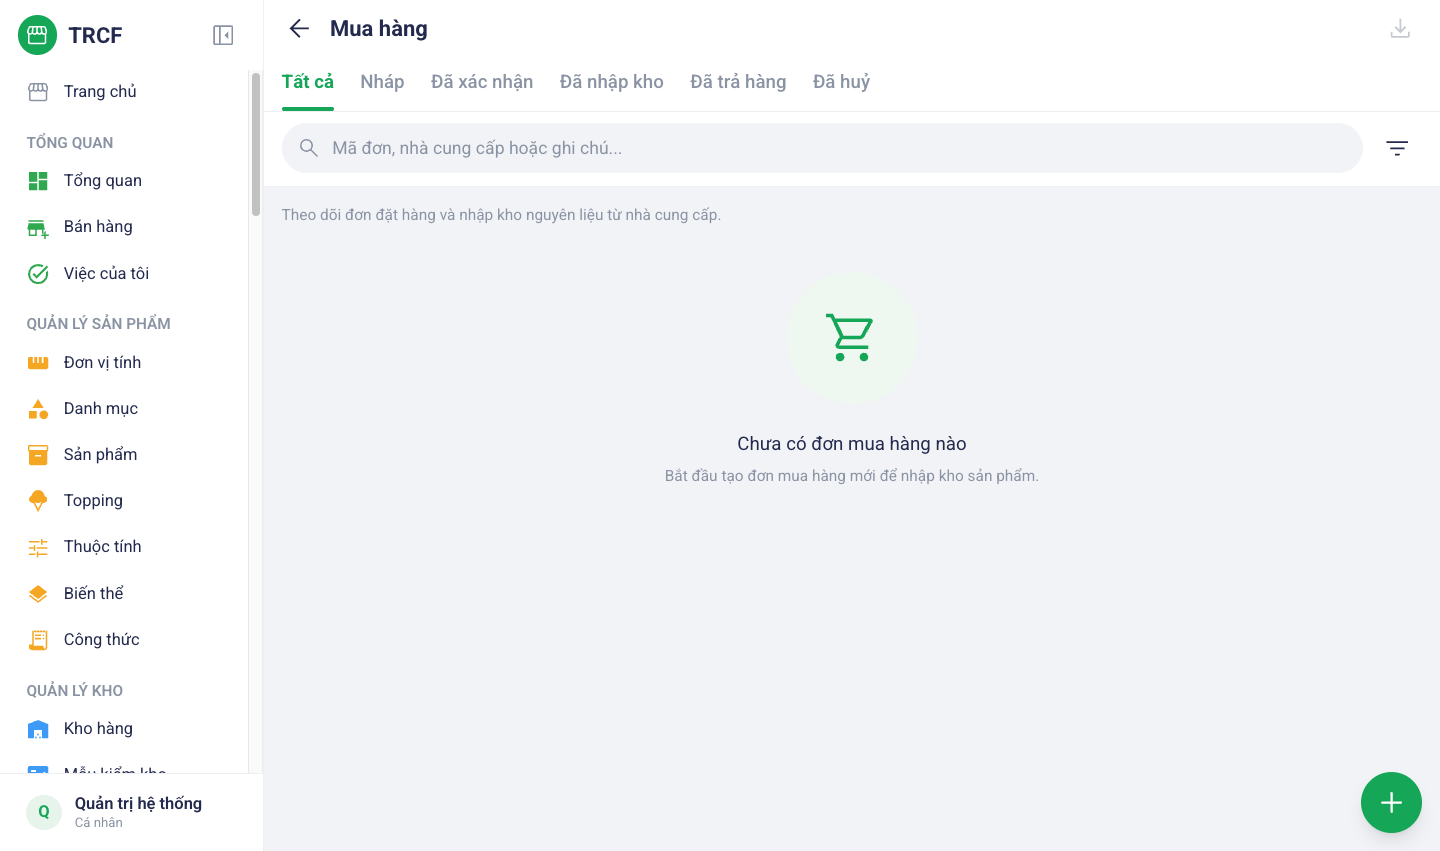
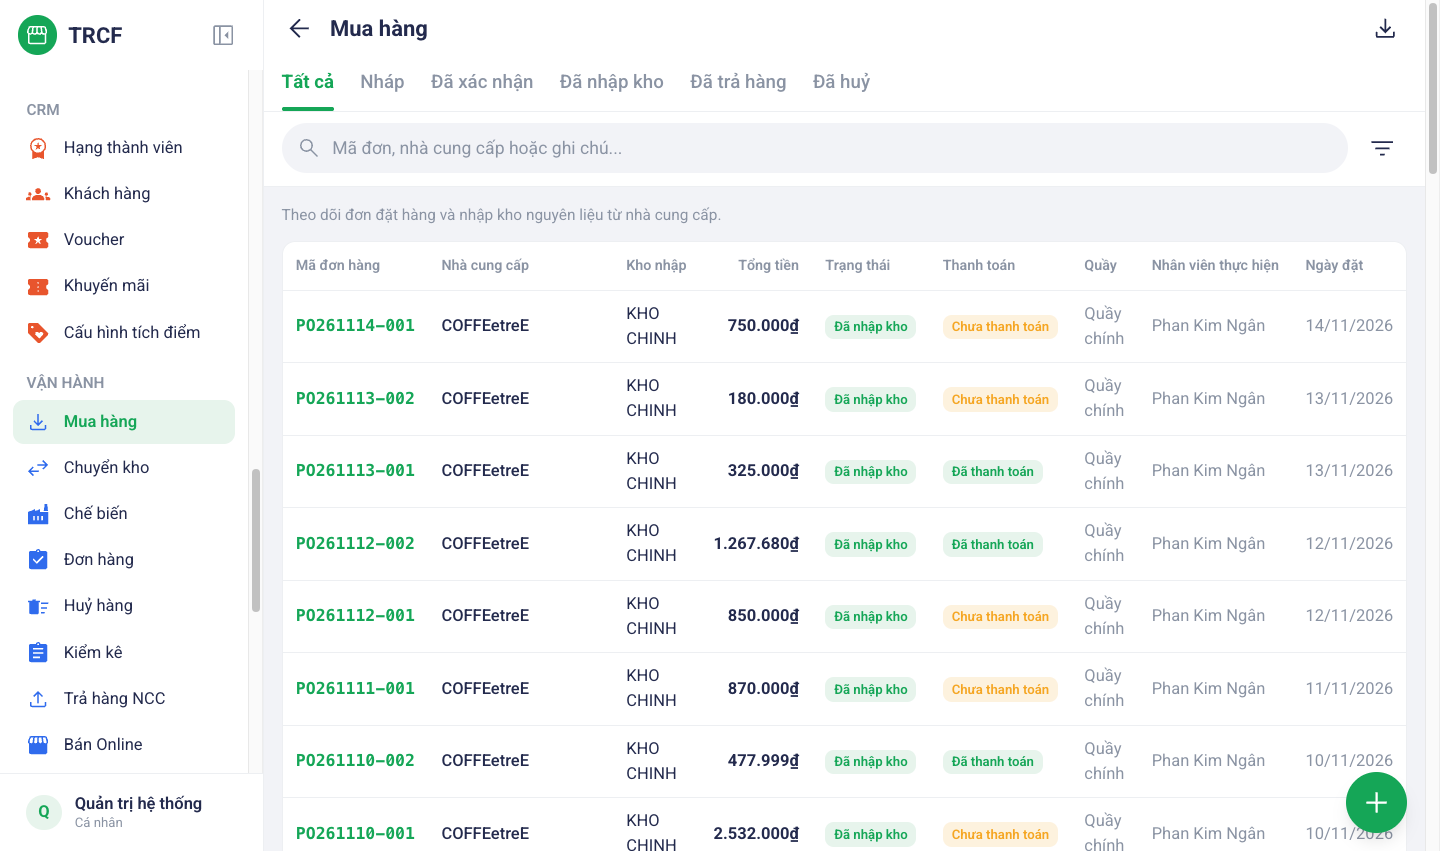
docs(11.2): nhập hàng thật — 50 CROISSANT CLASSIC × 17.000₫ vào KHO CHINH

diff --git a/noi-dung/11-2-nhap-hang.md b/noi-dung/11-2-nhap-hang.md
@@ -15,10 +15,10 @@ hoặc ô **Nhập hàng** ở khối *Tính năng cho bạn* trên Trang chủ.
 
 ## 2. Ví dụ nền và các bước thực hiện
 
-> **Ví dụ:** nhà cung cấp **Công ty Cà phê An Nhiên** giao 5 kg **Cà phê hạt Robusta**, đơn giá 280.000₫/kg.
+> **Ví dụ:** ngày 12/11/2026, nhà cung cấp **COFFEetreE** giao 50 cái **CROISSANT CLASSIC**, giá nhập 17.000₫/cái.
 >
-> - Kho nhập: **Kho tổng**. Phương thức thanh toán: **Tiền mặt**.
-> - Tổng cộng: 5 × 280.000 = **1.400.000₫**.
+> - Kho nhập: **KHO CHINH**. Bánh mua sẵn về bán lại nên nhập thẳng, không qua chế biến.
+> - Tổng cộng: 50 × 17.000 = **850.000₫**, trả sau.
 
 ### Bước 1: Mở trang Mua hàng
 
@@ -31,7 +31,7 @@ hoặc ô **Nhập hàng** ở khối *Tính năng cho bạn* trên Trang chủ.
 ### Bước 2: Khai đầu đơn và dòng hàng
 
 - Bấm nút tròn **+** ở góc dưới bên phải. Trang **Tạo đơn mua hàng mới** mở ra.
-- **Nhà cung cấp**: bấm vào ô, chọn **Công ty Cà phê An Nhiên**.
+- **Nhà cung cấp**: bấm vào ô, chọn **COFFEetreE**.
 - Bấm **Thêm dòng**, điền đầu đơn và dòng hàng như ảnh. **Đơn vị** tự lấy theo sản phẩm.
 - Bấm **Lưu đơn nháp** ở góc dưới bên phải.
 
@@ -39,7 +39,7 @@ hoặc ô **Nhập hàng** ở khối *Tính năng cho bạn* trên Trang chủ.
 
 ### Bước 3: Xác nhận rồi nhận hàng
 
-- Đơn mới nằm ở tab **Nháp**, mã dạng **PO261009-001**.
+- Đơn mới nằm ở tab **Nháp**, mã dạng **PO261115-001** (năm-tháng-ngày lập đơn + số thứ tự).
 - Bấm vào đơn để mở danh sách thao tác: **Sửa**, **Xác nhận**, **Huỷ đơn**, **Xoá**.
 - Kiểm tra lại, chọn **Xác nhận**. Đơn chuyển sang tab **Đã xác nhận**.
 - Khi hàng về tới quán, bấm vào đơn, chọn **Nhận hàng**.
@@ -67,7 +67,7 @@ hoặc ô **Nhập hàng** ở khối *Tính năng cho bạn* trên Trang chủ.
 | Trường | Điền gì |
 | --- | --- |
 | Sản phẩm | Hàng mua (chỉ hiện hàng đã bật *Có thể mua*) |
-| SL, Đơn vị | Nhập theo đơn vị lớn được: mua 5 *Kilogam*, hệ thống quy ra 5000 g. Đơn vị lớn phải khai ở *Đơn vị tính phụ* của sản phẩm |
+| SL, Đơn vị | Nhập theo đơn vị lớn được: mua 12 *HỘP 1250GR* sữa đặc, hệ thống quy ra 15.000 GR. Đơn vị lớn phải khai ở *Đơn vị tính phụ* của sản phẩm |
 | Giá nhập, VAT% | Giá và thuế suất trên hoá đơn NCC |
 | Thành tiền | Tự tính, không sửa |
 
